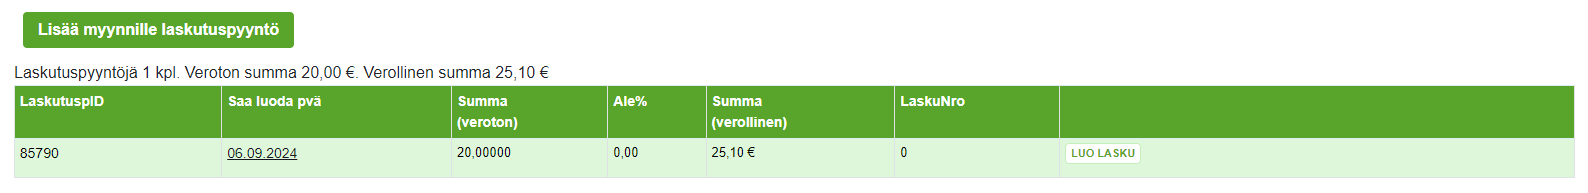
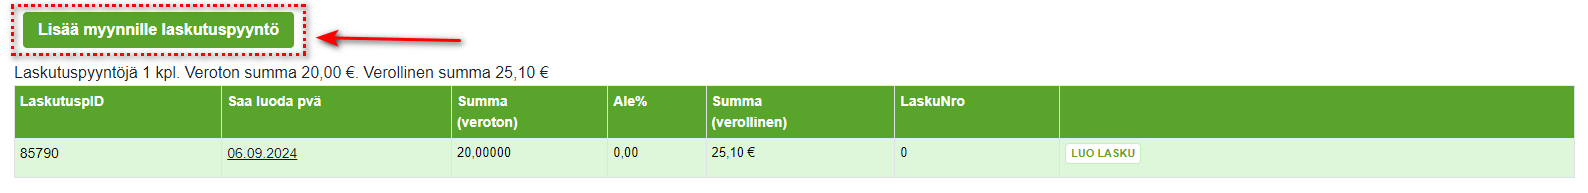
myynnin kasittely päiv

Changed region(s): [[0.0, 0.0, 0.3086, 0.3109]]

diff --git a/docs/ohjeet/ilmoitustenhallinta/ilmoitusasiakas.md b/docs/ohjeet/ilmoitustenhallinta/ilmoitusasiakas.md
@@ -161,6 +161,8 @@ Mikäli käyttäjä on aktivoinut omissa tiedoissaan <a href="/docs/pikaohjeet/i
 
 ### Yksittäisen myynnin käsittely
 
+![Myynti - Laskun muokkaus](/img/ohjeet/myynninkasittely5.png)
+
 Yksittäisen myynnin näkymästä pääset tarkastelemaan siihen liittyviä mainos/ilmoitusvarauksia sekä muokkaamaan myynnin tietoja.
 
 Myynnin tiedoissa näet tiedon siitä **milloin myynti on lisännyt** ja mikä käyttäjä on sen lisännyt, sekä päivämäärän ja kelloajan, milloin **myyntiä on viimeksi muutettu**, ja kenen toimesta.
@@ -170,6 +172,8 @@ Myynnin tiedoissa näet tiedon siitä **milloin myynti on lisännyt** ja mikä k
 Myyntiä pääsee muokkaamaan **Muokkaa myyntiä** –painikkeen kautta.
 
 **Poista myynti** -painike näkyy vain, mikäli kyseistä myyntiä ei ole vielä laskutettu.
+
+![Myynti - Laskun muokkaus](/img/ohjeet/myynninkasittely3.png)
 
 Myynnin Laskutuspyyntöjä (josta varsinainen lasku luodaan) pääsee muokkaamaan
 - **Kynä**-ikonista koko sisältöä
@@ -181,6 +185,8 @@ Myynnin Laskutuspyyntöjä (josta varsinainen lasku luodaan) pääsee muokkaamaa
 - **Saa luoda pvä** -linkistä laskutuspäivää
 - **Luo lasku** -painikkeesta ohittamaan laskutuspäivän ja luomaan laskun välittömästi
 
+![Myynti - Laskun muokkaus](/img/ohjeet/myynninkasittely4.png)
+
 Jos myynnille on asetettu pakettihinta, tulee näkyviin **Lisää myynnille laskutuspyyntö** -painike.
 
 ![Myynti - Myynnin käsittely](/img/ohjeet/pakettihinta.png)
@@ -191,7 +197,6 @@ Jos myynnille on asetettu pakettihinta, tulee näkyviin **Lisää myynnille lask
 Ilmoitusvarauksen **numeroa** klikkaamalla pääsee yksittäisen ilmoitusvarauksen tietoihin.
 
 ![Myynti - Myynnin käsittely](/img/ohjeet/myynninkasittely.png)
-*Myynnin käsittely -lomake.*
 
 ### Yksittäisen myynnin muokkaaminen
 
